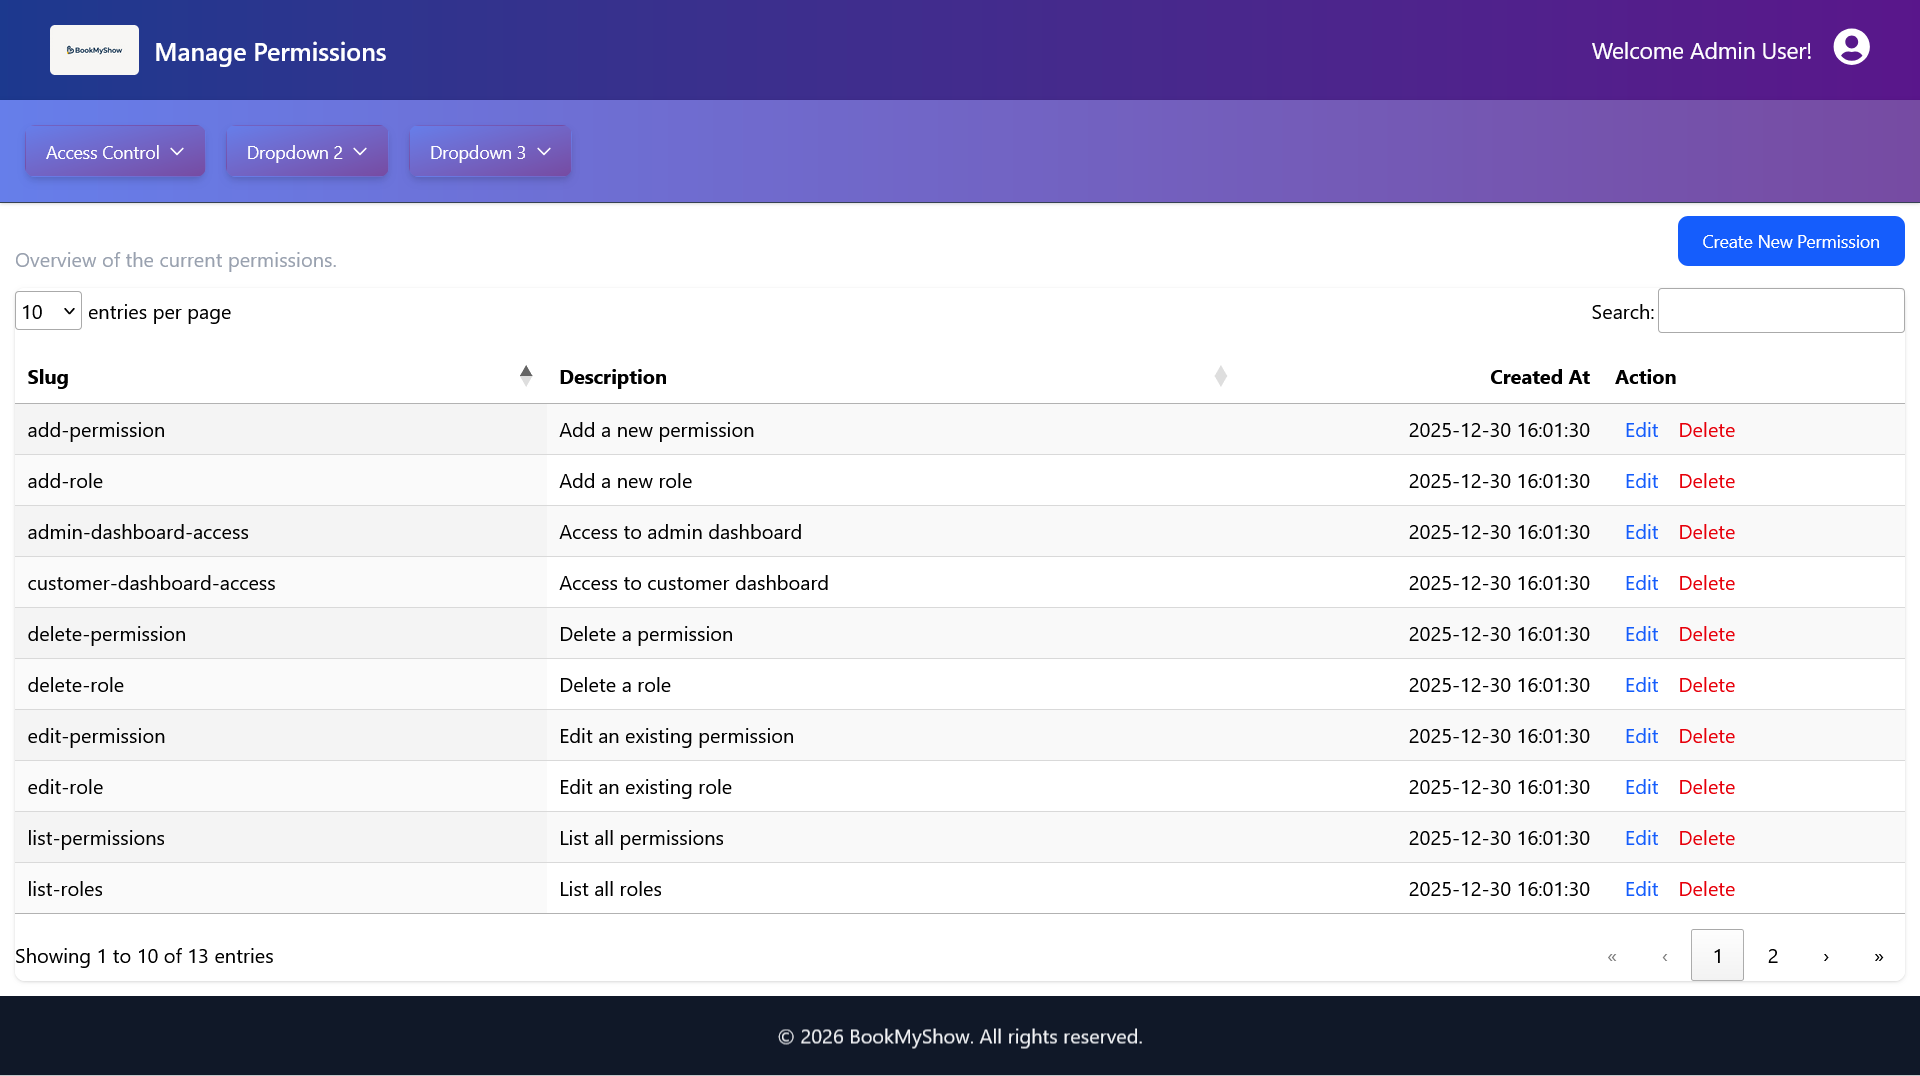
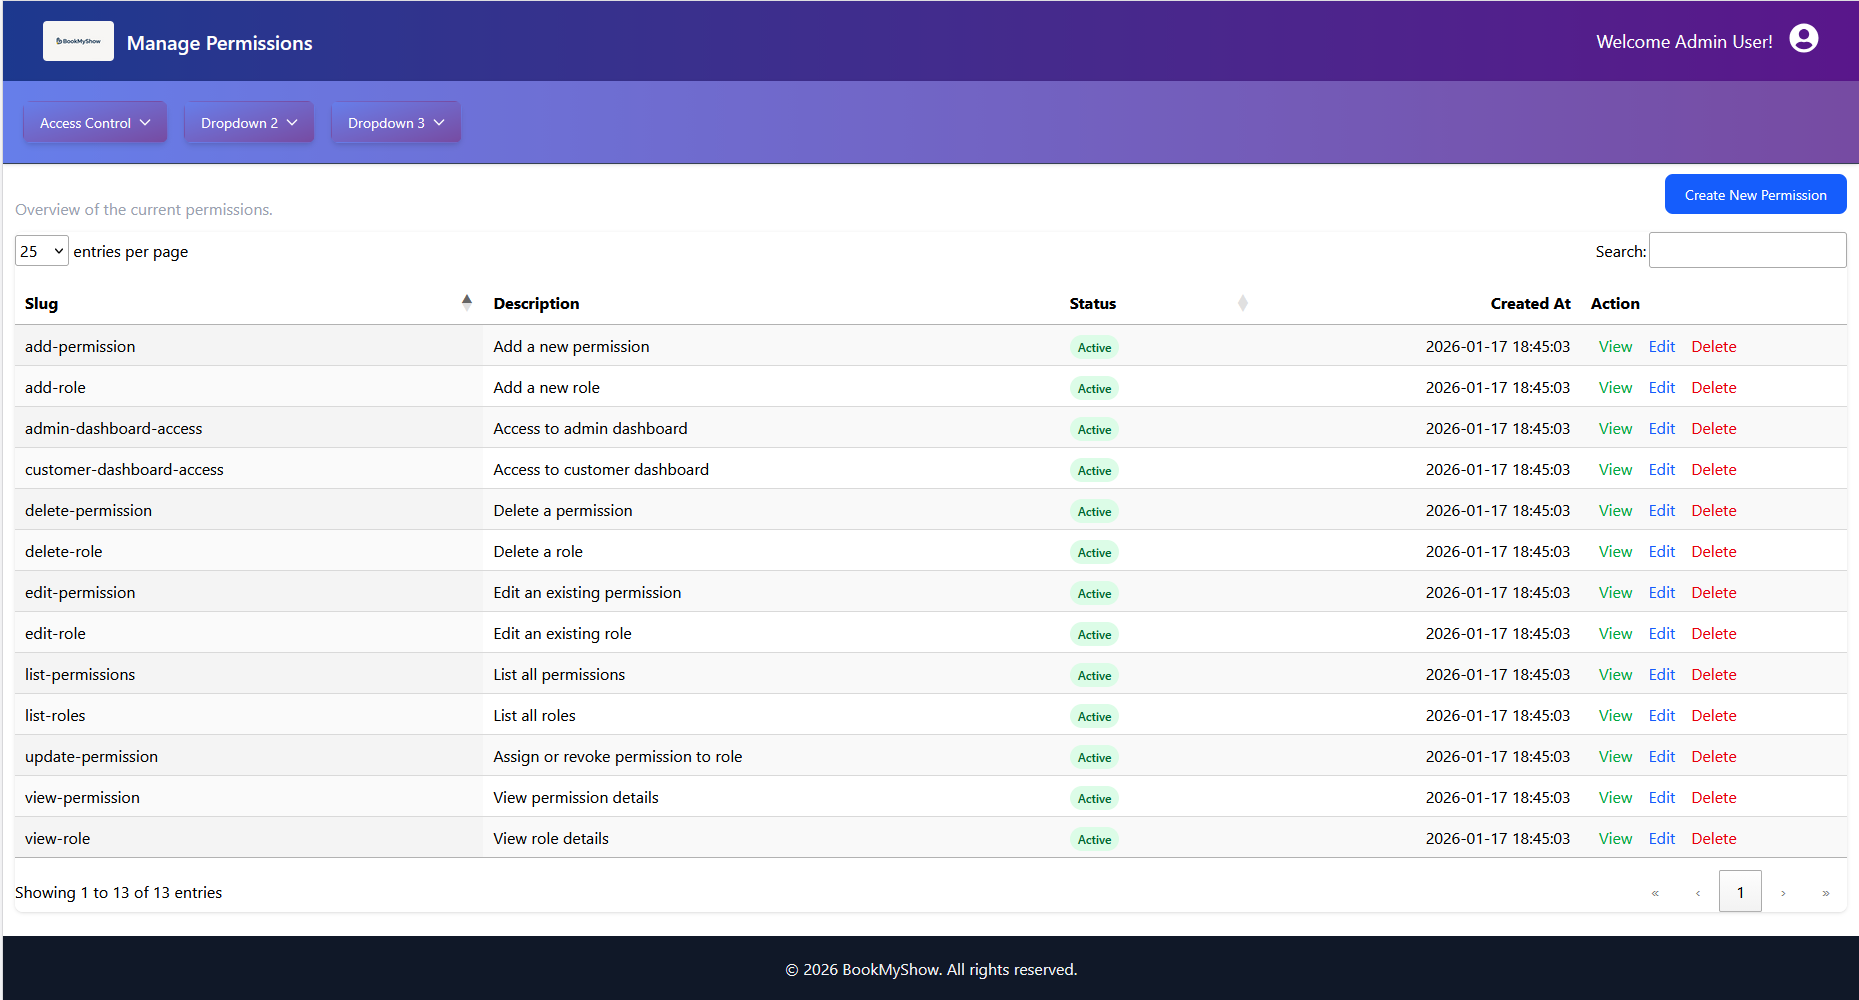
Screenshots added and document updated.

diff --git a/php/BookMyShow/README.md b/php/BookMyShow/README.md
@@ -538,6 +538,18 @@ Get-Job | Remove-Job
 
 ![Manage Permissions](./public/images/screenshots/ManagePermissions.png)
 
+### Create Permission
+
+![Create Permission](./public/images/screenshots/CreatePermission.png)
+
+### View Permission
+
+![View Permission](./public/images/screenshots/ViewPermission.png)
+
+### Edit Permission
+
+![Edit Permission](./public/images/screenshots/EditPermission.png)
+
 ## API Document
 
 [Swagger YAML](./public/BookMyShow.swagger.yaml)
